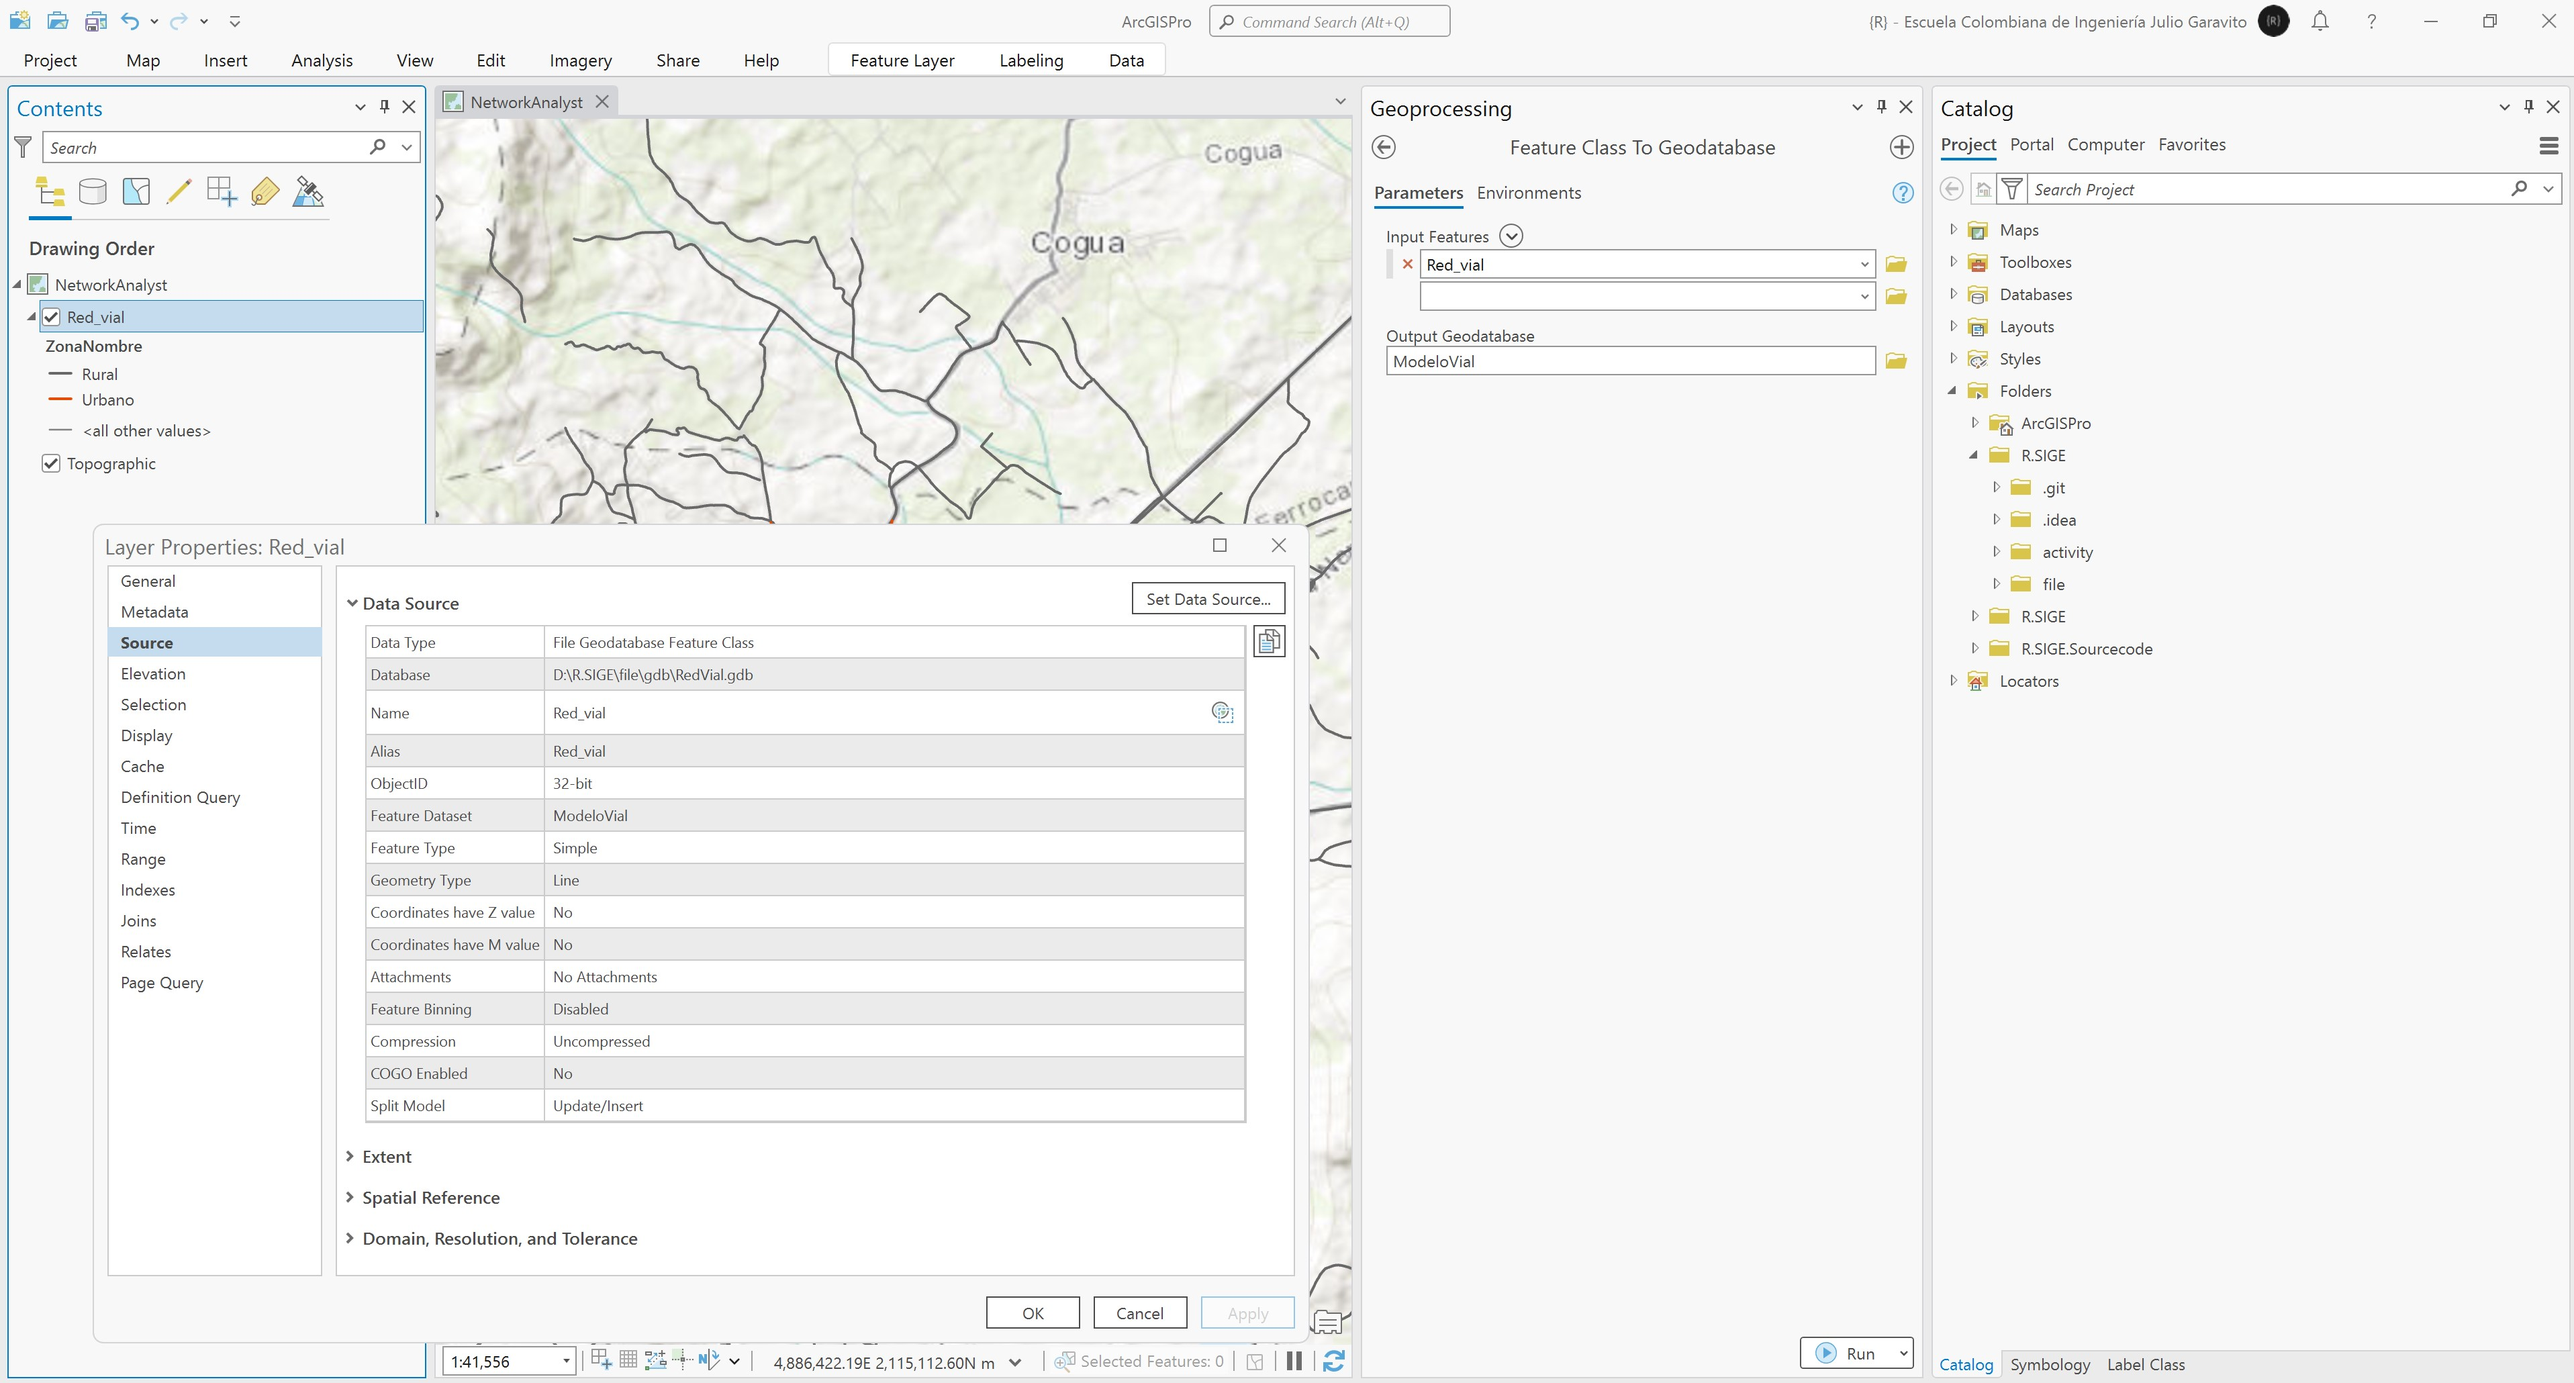
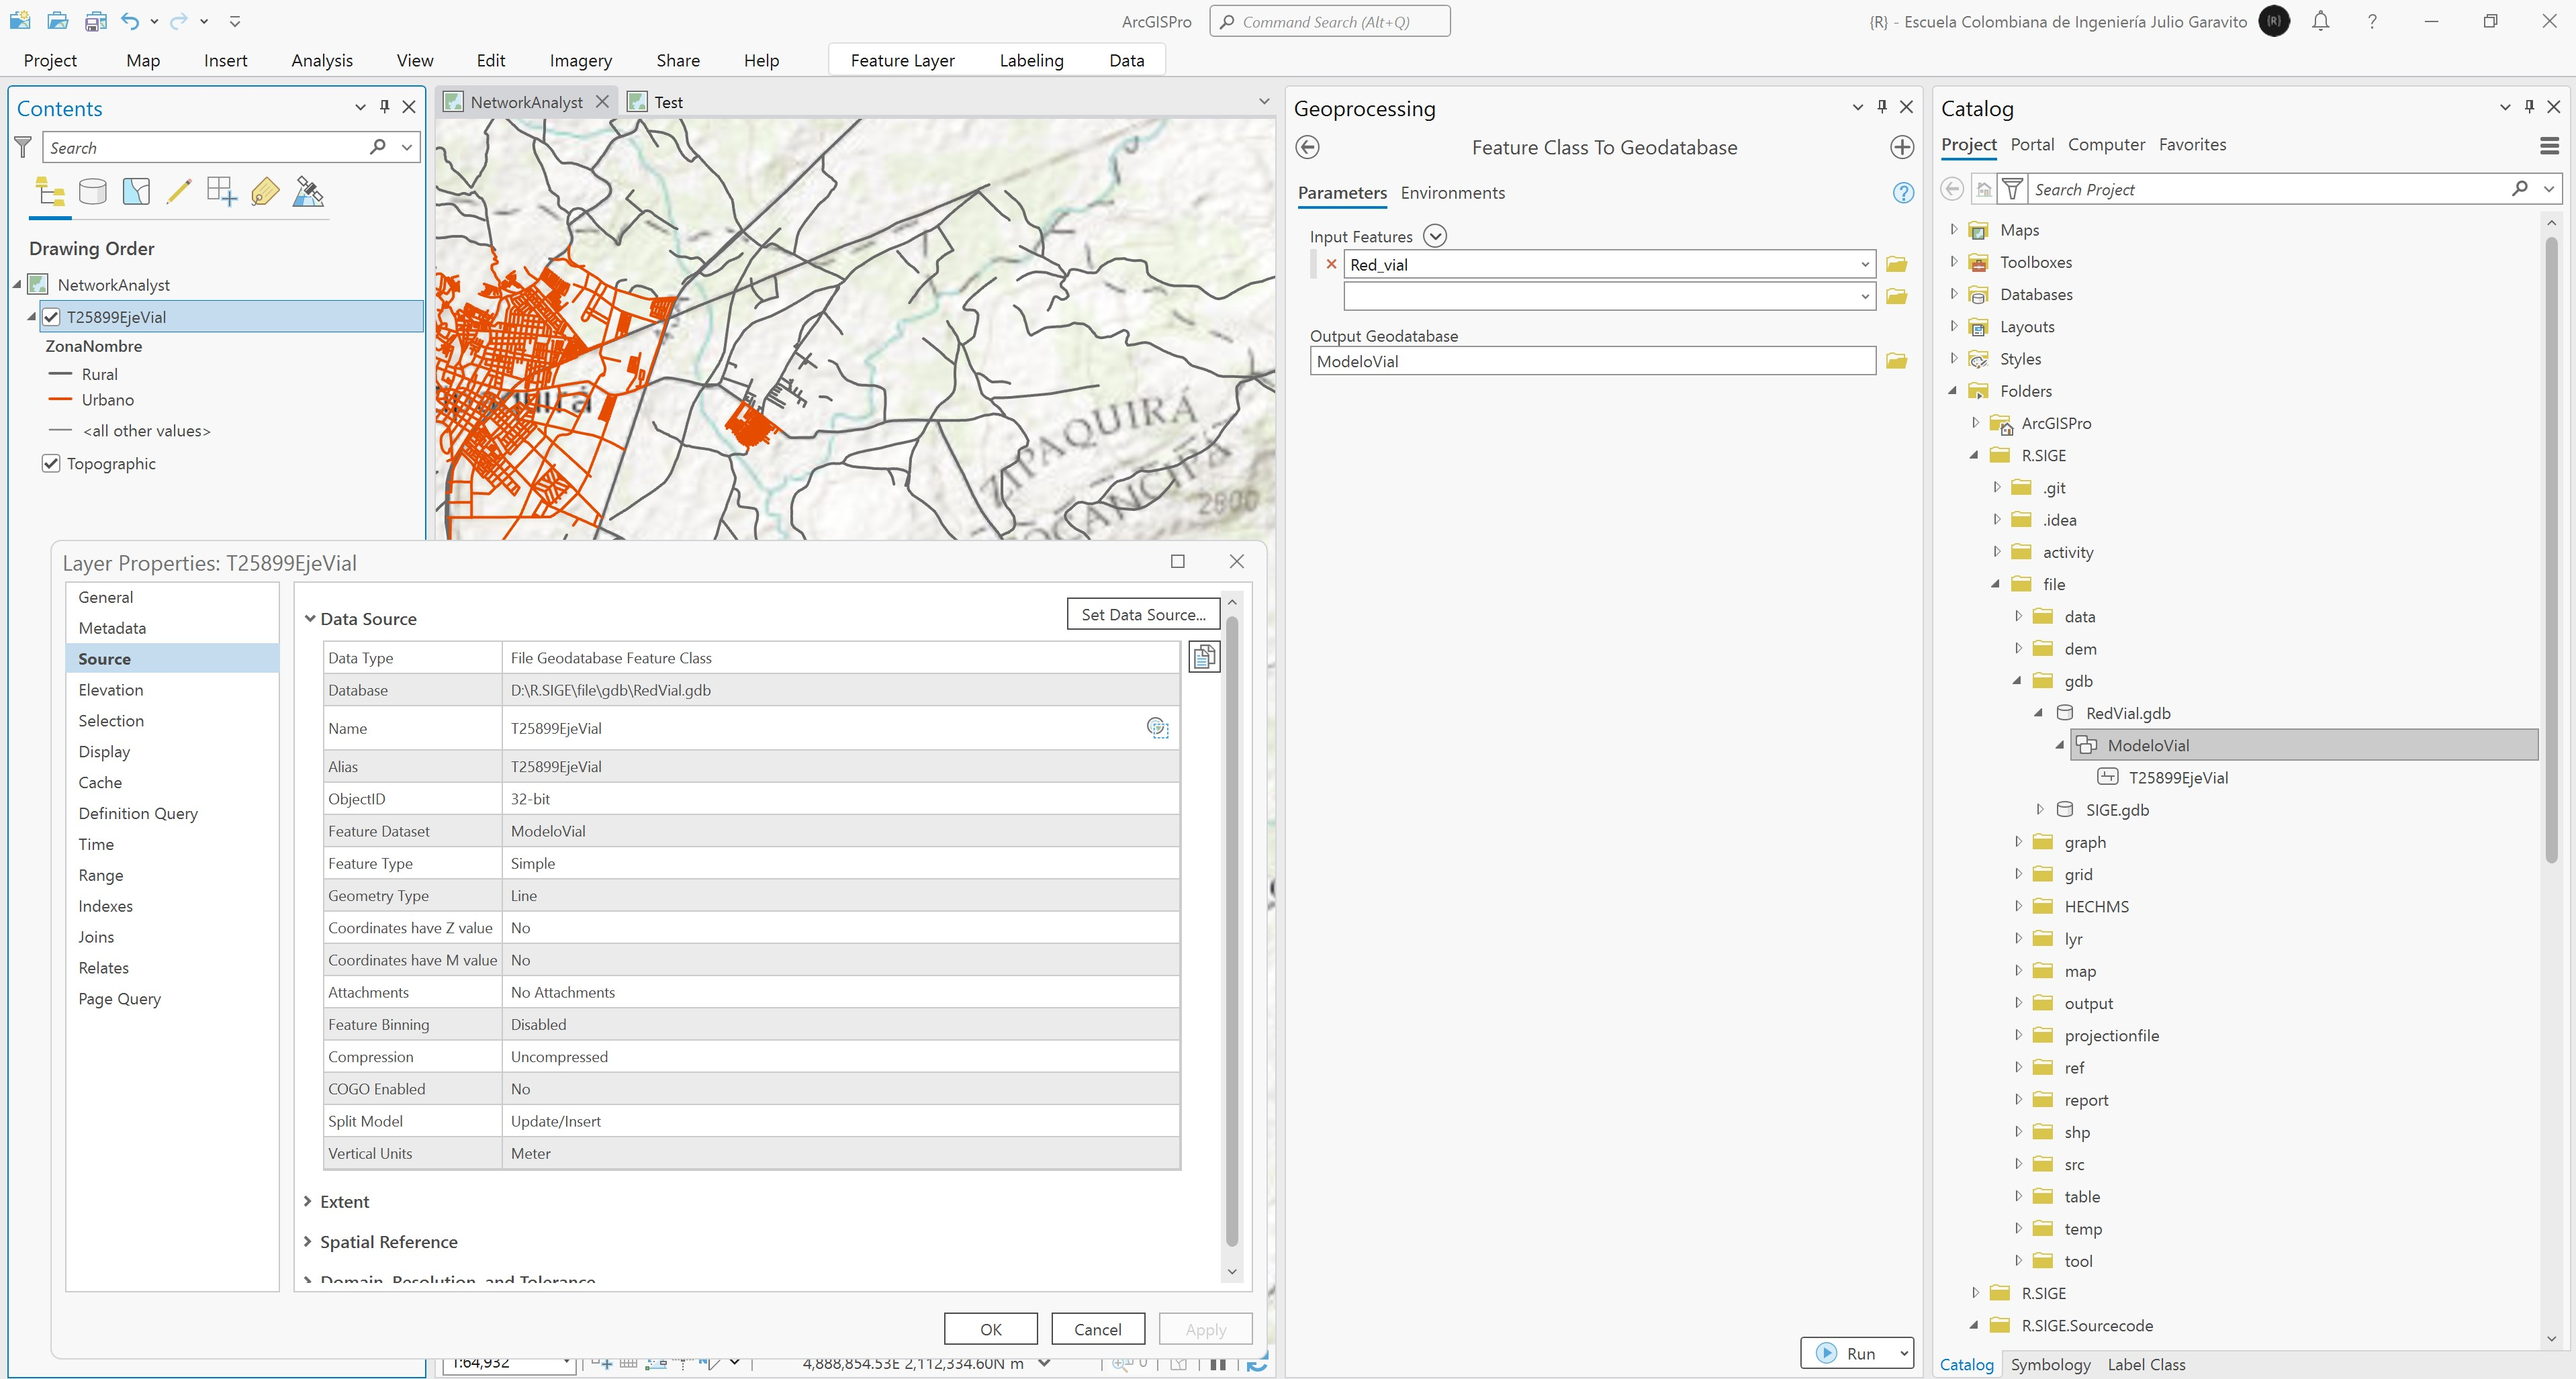
General update.

diff --git a/activity/NANetProp/Readme.md b/activity/NANetProp/Readme.md
@@ -29,14 +29,29 @@ En la carpeta GDB cree una File Geodatabase y un dataset para la integración de
 
 <div align="center"><img src="graph/ArcGISPro_CreateGDB.jpg" alt="R.SIGE" width="100%" border="0" /></div>
 
-3. Importe al dataset _ModeloVial_, la capa _Red_vial_. Desde el panel lateral izquierdo _Contents_, modifique la fuente de datos de cla capa _Red_vial_ hacia la ruta de la GDB del _ModeloVial_
+3. Importe al dataset _ModeloVial_, la capa _Red_vial_. Desde el panel lateral izquierdo _Contents_, modifique la fuente de datos de cla capa _Red_vial_ hacia la ruta de la GDB del _ModeloVial_. Renombre como `T25899EjeVial`.
 
 <div align="center"><img src="graph/ArcGISPro_GDBImportLines.jpg" alt="R.SIGE" width="100%" border="0" /></div>
 
 4. En la tabla de atributos de la red vial, cree los siguientes atributos:
 
+<div align="center">
 
+| Atributo    | Descripción                                                                                                                 | Tipo        |
+|:------------|:----------------------------------------------------------------------------------------------------------------------------|:------------|
+| Name        | Nombre de la vía                                                                                                            | Text (255)  |
+| Class       | Clase de vía (Autopista, Calle, Camino, Carrera, Diagonal, Ferrea, Peatonal, Sin Clase, Transversal)                        | Text (255)  |
+| Meters      | Longitud de tramo en metros                                                                                                 | Double      |
+| kph         | Velocidad de tramo en kilómetros / hora                                                                                     | Double      |
+| Oneway      | Sentido vial vector (TF, FT, N). To, From, Not                                                                              | Text (1)    |
+| Hierarchy   | Jerarquía víal de 1 a n                                                                                                     | Long        |
+| Func_Class  | Clasificador víal numérico en función de la clase y jerarquía                                                               | Long        |
+| FT_Minutes  | Tiempo de viaje en minutos, desde a hacia o hacia desde. Calcular con la expresión FT_Minutes = (!Meters!/1000)/(!KPH!/60)  | Double      |
+| TF_Minutes  | Tiempo de viaje en minutos, hacia a desde. Calcular con la expresión FT_Minutes = (!Meters!/1000)/(!KPH!/60)                | Double      |
 
+</div>
+
+> Atributos complementarios: en caso de que la red vial incluya puentes, deprimidos, tramos sin pavimentar, zonas de paso peatonal y otros elementos importantes, deberá incluir estos atributos
 
 
 
